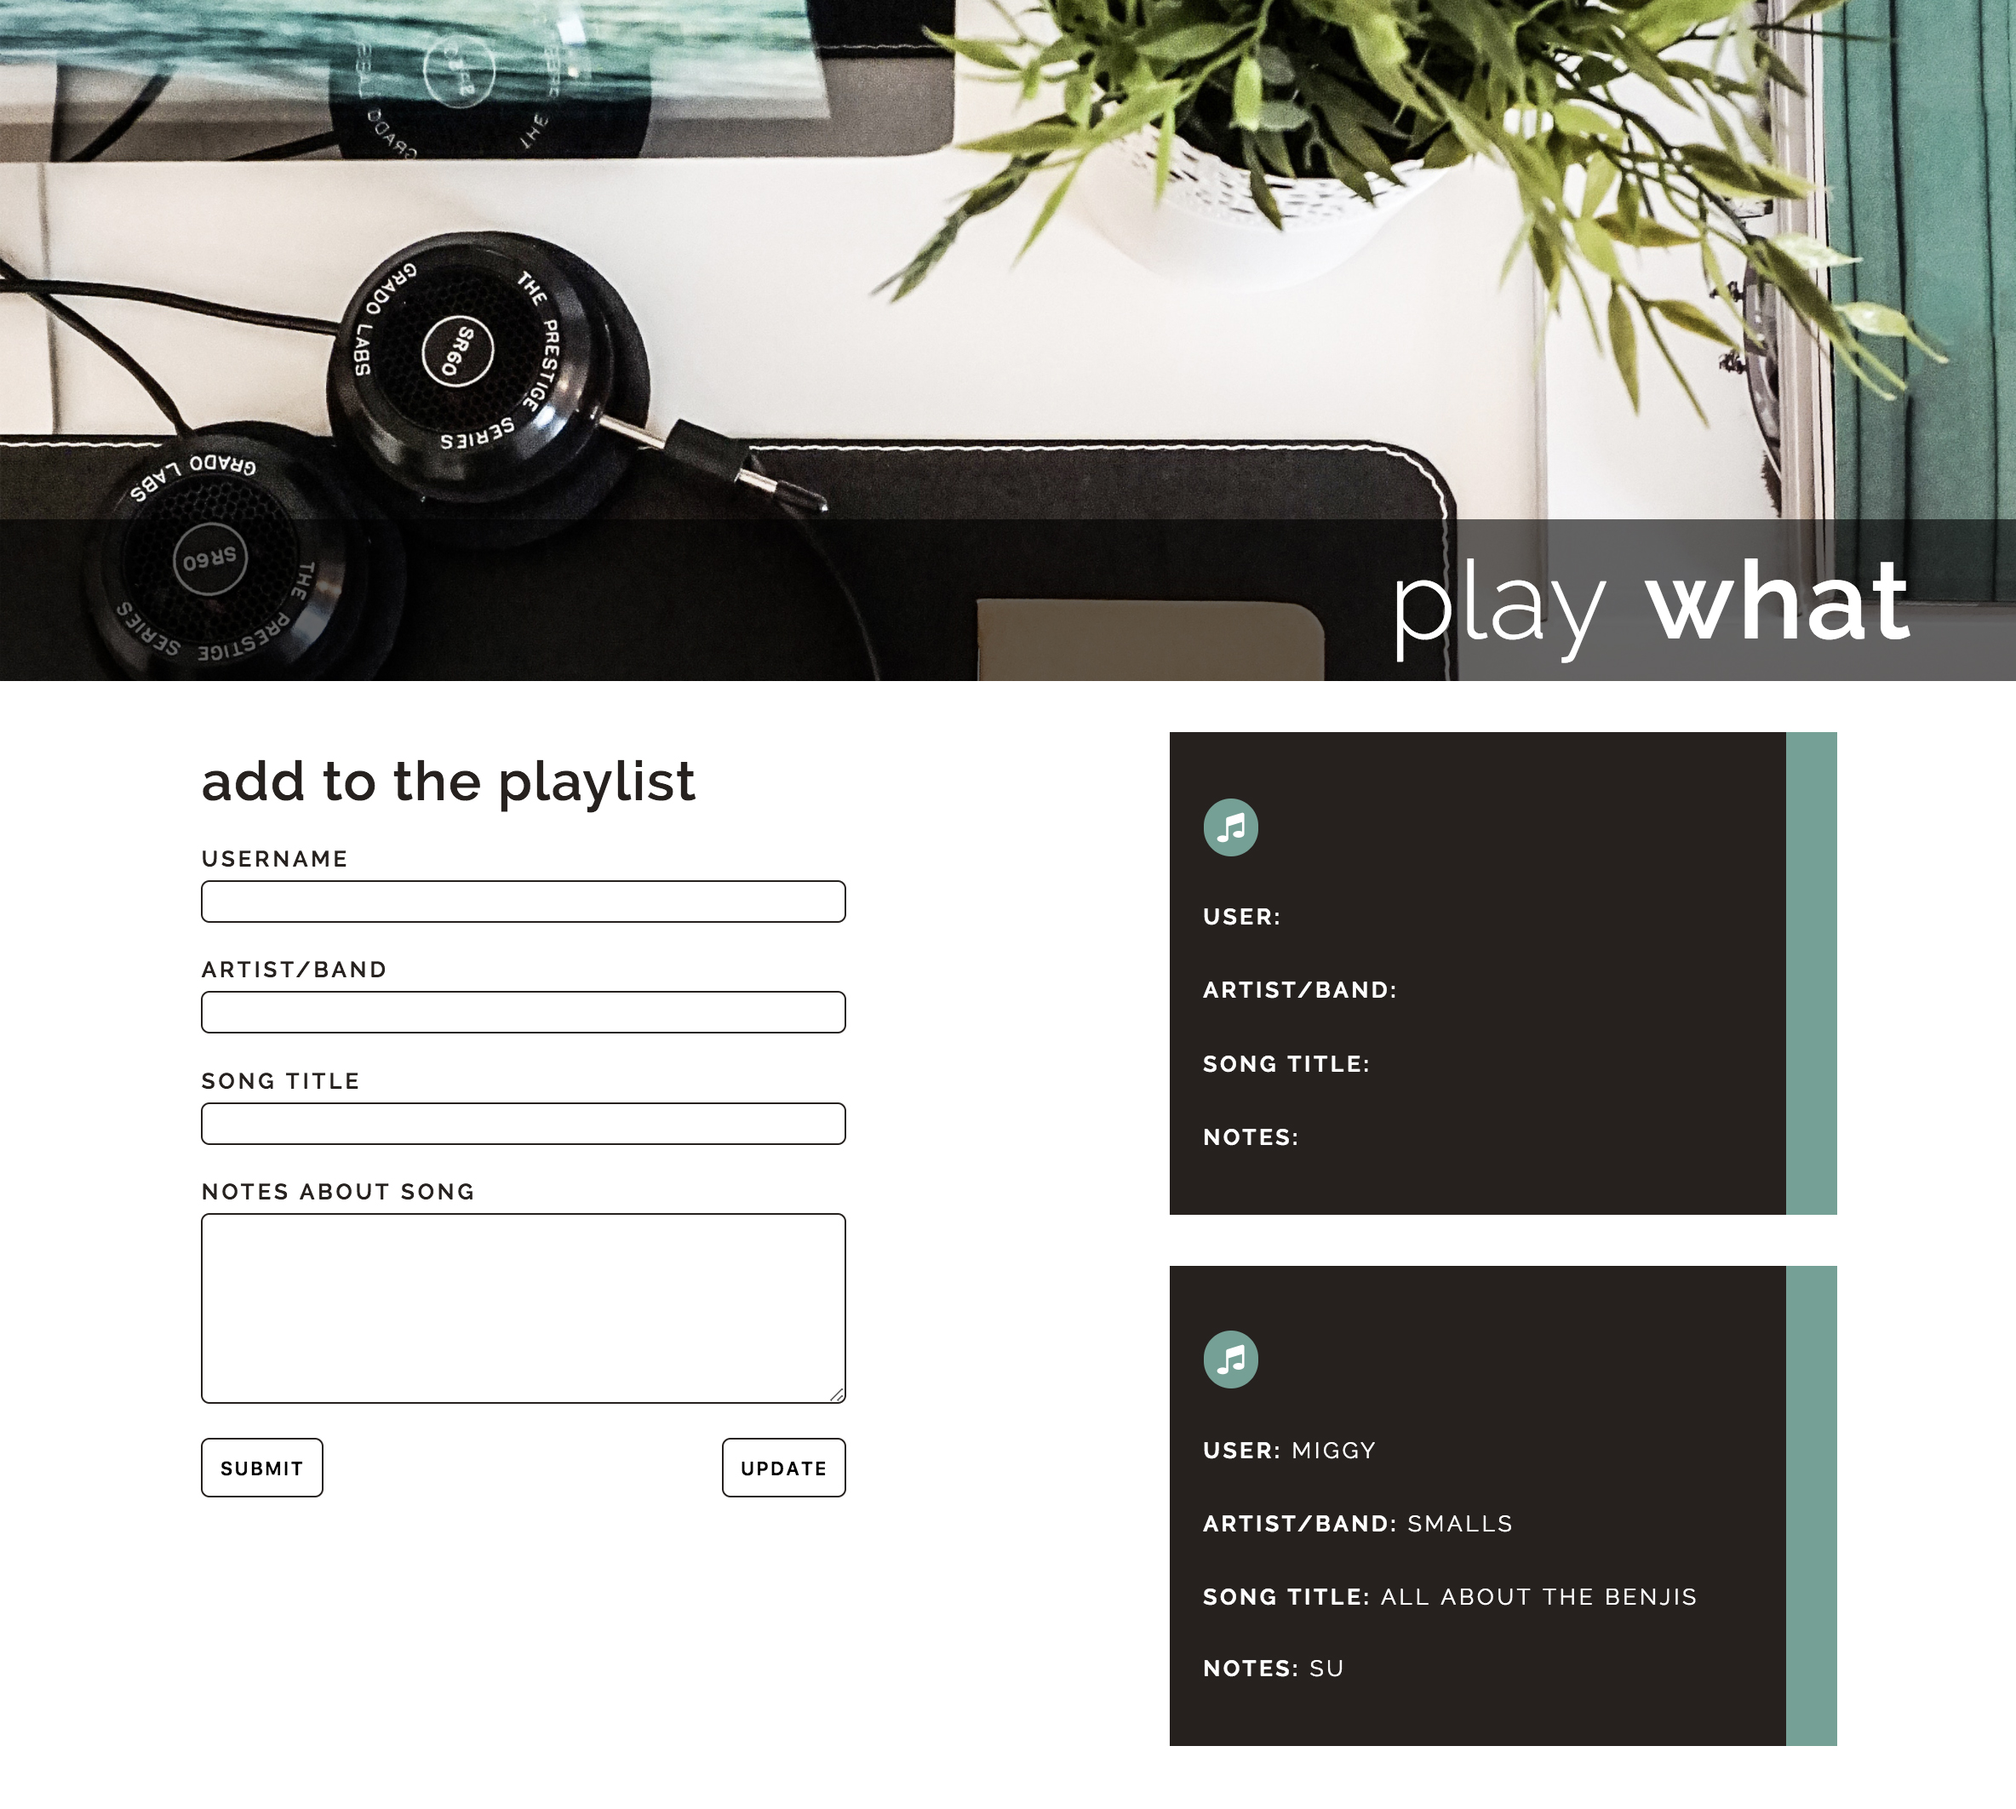
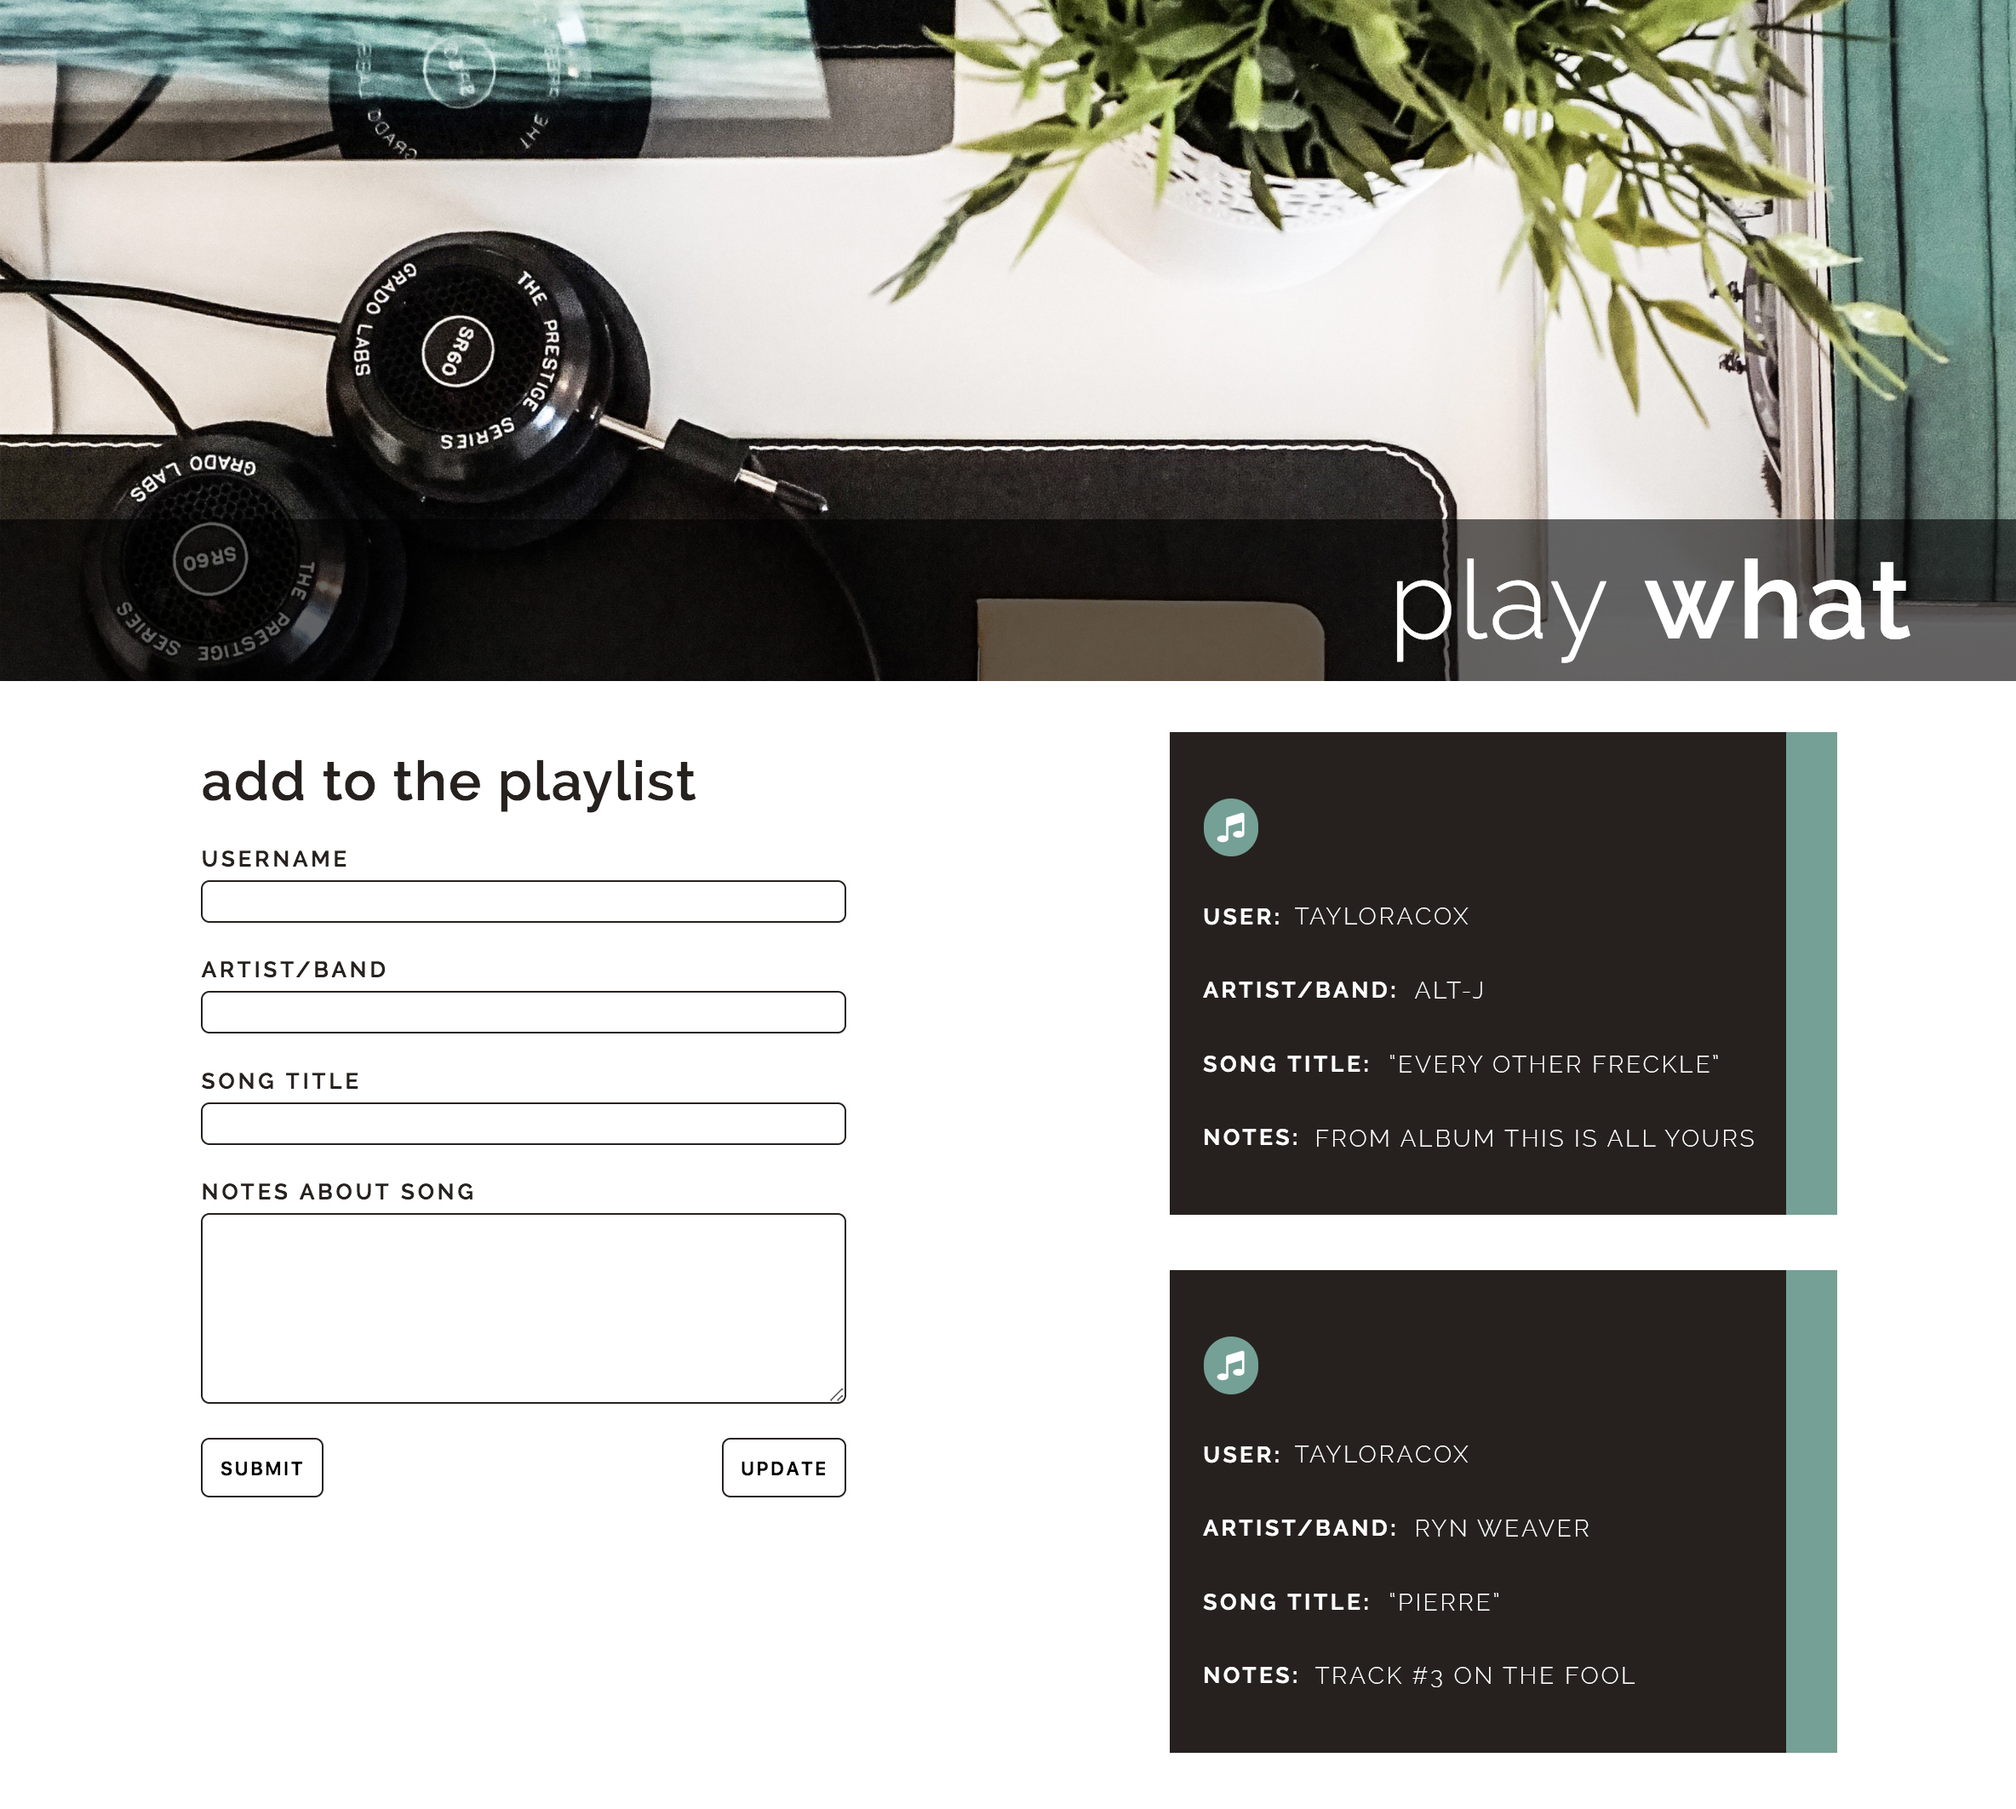
Updated screenshot, readme, and added quotations to song title

Changed region(s): [[0.5938, 0.8386, 0.75, 0.9318], [0.5938, 0.9628, 0.9062, 0.9939], [0.5938, 0.7454, 0.6875, 0.8075]]

diff --git a/src/components/PlayListItem.js b/src/components/PlayListItem.js
@@ -21,7 +21,7 @@ class PlayListItem extends Component {
           <h3><i className="fa fa-music" aria-hidden="true"></i></h3>
           <p><strong>User:</strong> {song.userName}</p>
           <p><strong>Artist/Band:</strong> {song.songArtist}</p>
-          <p><strong>Song Title:</strong> {song.songTitle}</p>
+          <p><strong>Song Title:</strong> "{song.songTitle}"</p>
           <p><strong>Notes:</strong> {song.songNotes}</p>
         </div>
       )
